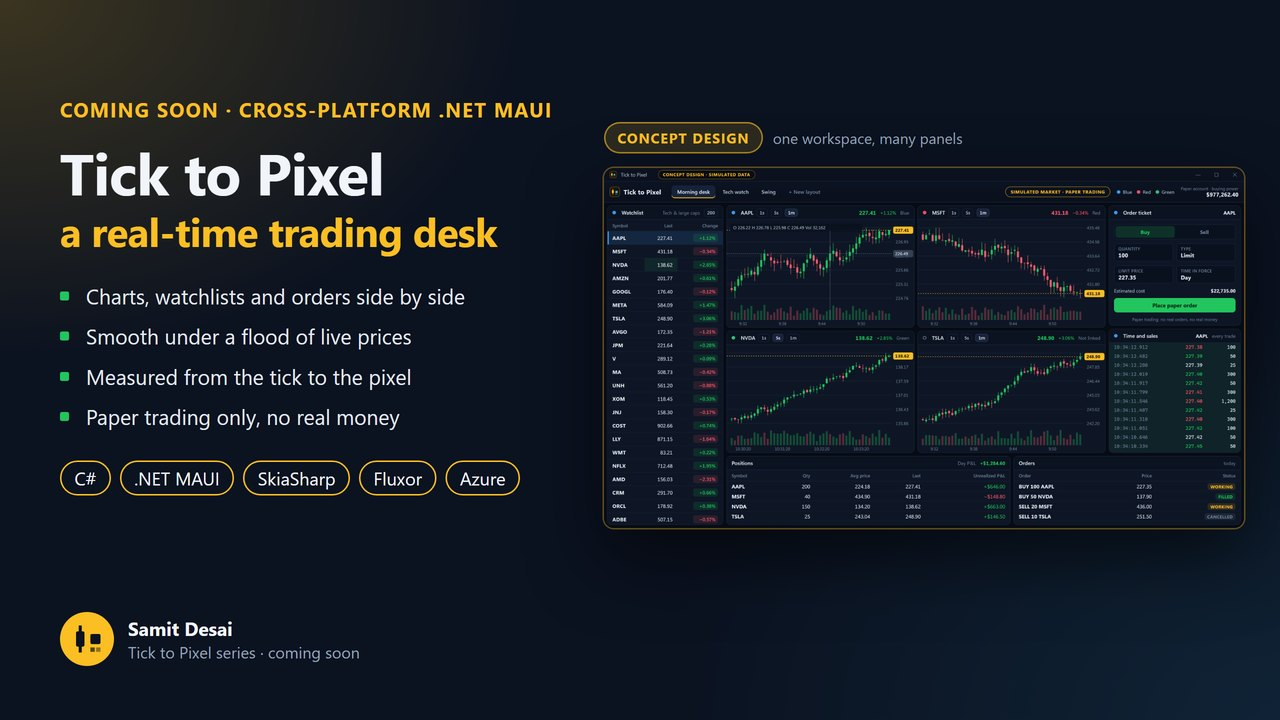
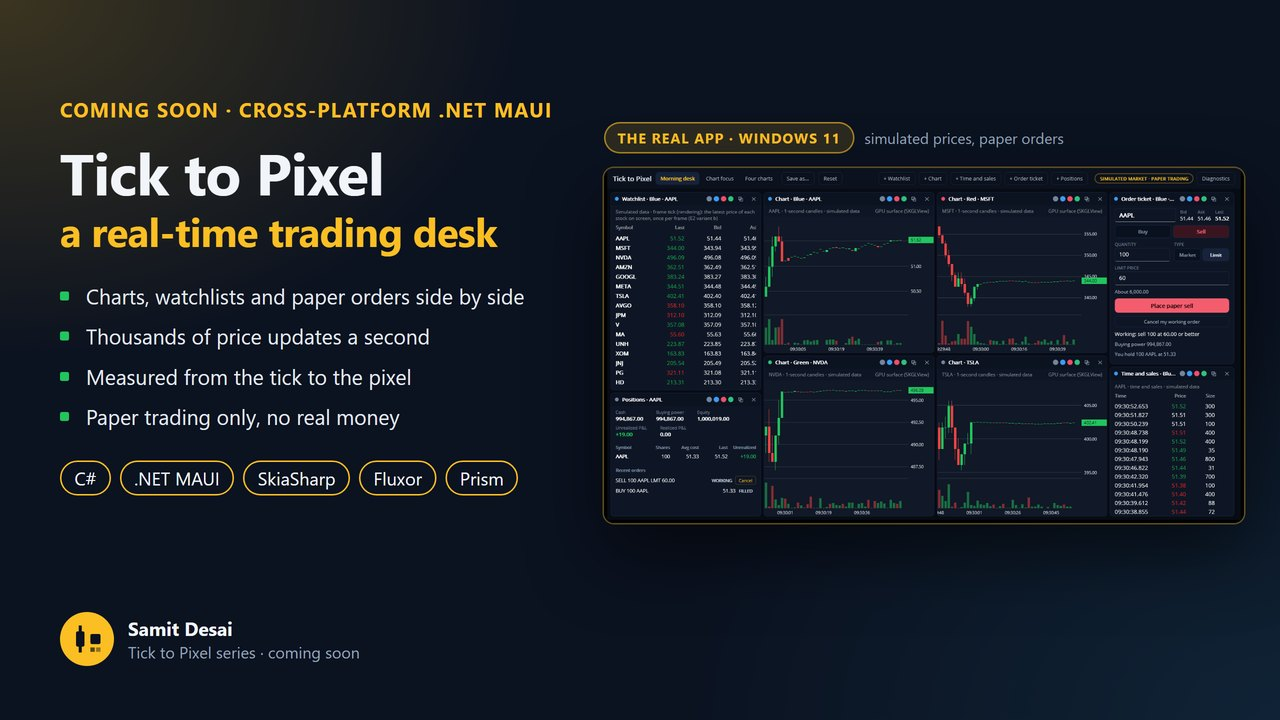
Tick to Pixel: screenshots of the real app instead of the concept design; the workspace of panels and paper trading are now built

diff --git a/tick-to-pixel/index.html b/tick-to-pixel/index.html
@@ -150,8 +150,8 @@ footer p { margin: 4px 0; }
     <p class="sub">Not a pop-up window for every view. One desk, laid out the way you trade, with as many charts and
     tickers as you need.</p>
     <figure>
-      <div class="shot"><img src="../img/ticktopixel-workspace.jpg" alt="Concept design of the Tick to Pixel workspace: a watchlist on the left; four candlestick charts for AAPL, MSFT, NVDA and TSLA in a grid; an order ticket and time and sales on the right; positions and orders along the bottom. Panels carry blue, red or green link dots. All data is simulated." width="1600" height="900" loading="lazy"></div>
-      <figcaption>Concept design. The app is being built now; the series will show it running. All prices are simulated.</figcaption>
+      <div class="shot"><img src="../img/ticktopixel-app.jpg" alt="Screenshot of the Tick to Pixel app on Windows 11: a watchlist and the paper account on the left; four candlestick charts for AAPL, NVDA, MSFT and TSLA; an order ticket and time and sales on the right. The account holds 100 AAPL bought on paper, and a limit sell is working, with a cancel button. Panels carry blue, red or green link dots. All prices are simulated." width="1600" height="888" loading="lazy"></div>
+      <figcaption>The real app on Windows 11 (October 2026): the "Morning desk" layout, after a paper buy filled and a limit sell placed. All prices are simulated; paper trading only.</figcaption>
     </figure>
 
     <div class="cards" style="margin-top:22px">
@@ -194,6 +194,12 @@ footer p { margin: 4px 0; }
       zoom.</span></span></li>
       <li><span class="st built">Built</span><span><b>Views linked by colour, through a store</b><span class="d">One
       Fluxor store, used only on the UI thread. Three views on one stock share one market-data subscription.</span></span></li>
+      <li><span class="st built">Built</span><span><b>The workspace of panels</b><span class="d">Watchlists, charts, time and sales,
+      an order ticket and your positions side by side; resizable columns; named layouts saved and restored; any panel
+      pops out into its own window.</span></span></li>
+      <li><span class="st built">Built</span><span><b>Paper trading</b><span class="d">One engine thread owns the money:
+      market and limit orders, cash held for buys, no short selling, and one order per click even on a double click.
+      <span class="measured">Measured: an order shows as filled on screen within 3 ms (p99)</span>.</span></span></li>
       <li><span class="st built">Built</span><span><b>"The store buys atomicity"</b><span class="d">Cash and shares sent to
       the screen as two separate updates: <span class="measured">about 1 frame in 5 showed numbers that never existed
       together</span>. Sent as one snapshot through the store: <span class="measured">none</span>.</span></span></li>
@@ -204,10 +210,11 @@ footer p { margin: 4px 0; }
     <h2>Coming next</h2>
     <p class="sub">Designed in full, built one piece at a time.</p>
     <ul class="list">
-      <li><span class="st next">Next</span><span><b>The workspace of panels</b><span class="d">Several charts and
-      tickers in one window; arrange them, save named layouts, restore them on start. A full diagnostics panel.</span></span></li>
-      <li><span class="st plan">Planned</span><span><b>Paper trading</b><span class="d">Order ticket, order states,
-      fills, positions and P&amp;L. Money as <code>decimal</code>; no order or fill is ever dropped or merged.</span></span></li>
+      <li><span class="st next">Next</span><span><b>More of paper trading</b><span class="d">Partial fills, the
+      cancel-or-fill race, and an account that survives a restart. Money stays <code>decimal</code>; no order or fill is
+      ever dropped or merged.</span></span></li>
+      <li><span class="st next">Next</span><span><b>Many charts, one GPU surface</b><span class="d">Four busy charts
+      in one window cost frames today; drawing them all on one surface should fix that. Measured first, of course.</span></span></li>
       <li><span class="st plan">Planned</span><span><b>Real market data through my own gateway</b><span class="d">ASP.NET
       Core and SignalR on Azure: streaming prices, reconnect, and catching up after a drop.</span></span></li>
       <li><span class="st plan">Planned</span><span><b>Distributed-systems labs</b><span class="d">Small working labs: a
@@ -259,7 +266,7 @@ footer p { margin: 4px 0; }
       <li>Paper trading and simulated prices only. Nothing here is investment advice.</li>
       <li>Company names and tickers appear only as examples, with simulated prices. No affiliation or endorsement.</li>
       <li>Built and measured on Windows 11. Other platforms are .NET MAUI targets, not yet tested.</li>
-      <li>The workspace picture above is a concept design, not a screenshot.</li>
+      <li>The pictures are screenshots of the app running on Windows 11, with simulated prices.</li>
       <li>I use an AI coding assistant. The design decisions, reviews and measurements are mine.</li>
     </ul>
   </section>

diff --git a/index.html b/index.html
@@ -152,7 +152,7 @@ footer p { margin: 4px 0; }
 
   <div class="card featured">
     <a class="shot" href="tick-to-pixel/" aria-label="Coming soon: Tick to Pixel, see what's coming">
-      <img class="cover" src="img/ticktopixel.jpg" alt="Cover: Tick to Pixel, a real-time trading desk in cross-platform .NET MAUI, coming soon, with a concept design of a workspace of charts, a watchlist and an order ticket" width="1280" height="720">
+      <img class="cover" src="img/ticktopixel.jpg" alt="Cover: Tick to Pixel, a real-time trading desk in cross-platform .NET MAUI, coming soon, with a screenshot of the real app: a workspace of charts, a watchlist, an order ticket and positions" width="1280" height="720">
     </a>
     <div class="body">
       <span class="status soon">Coming soon · series in the works</span>
